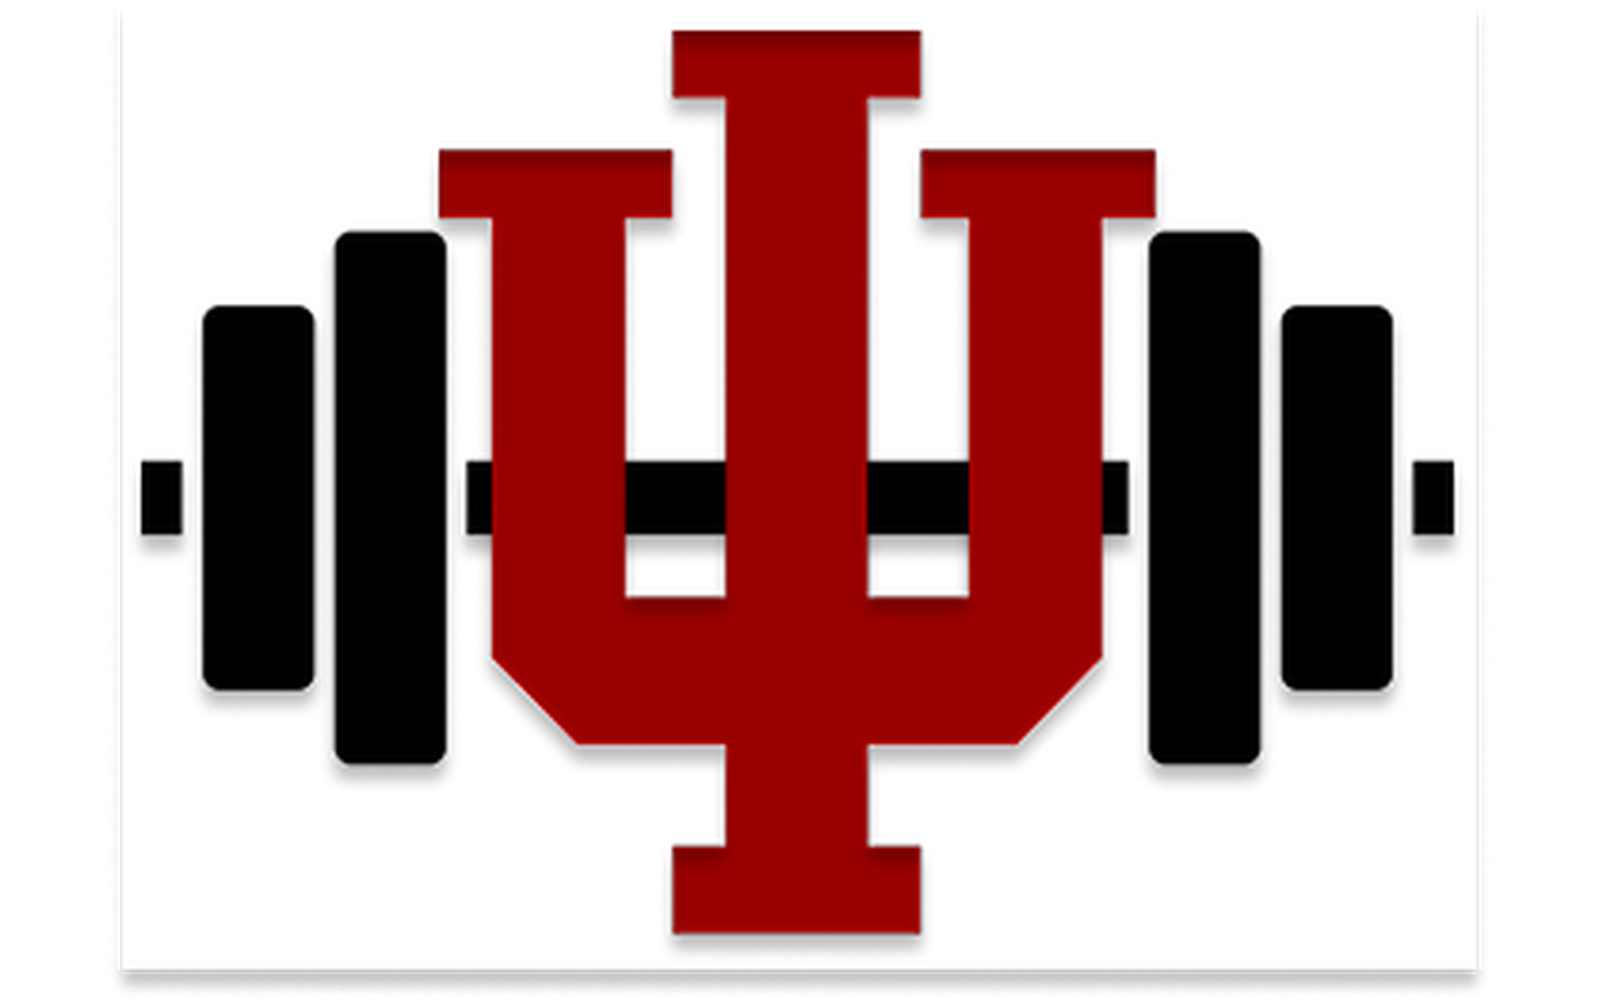
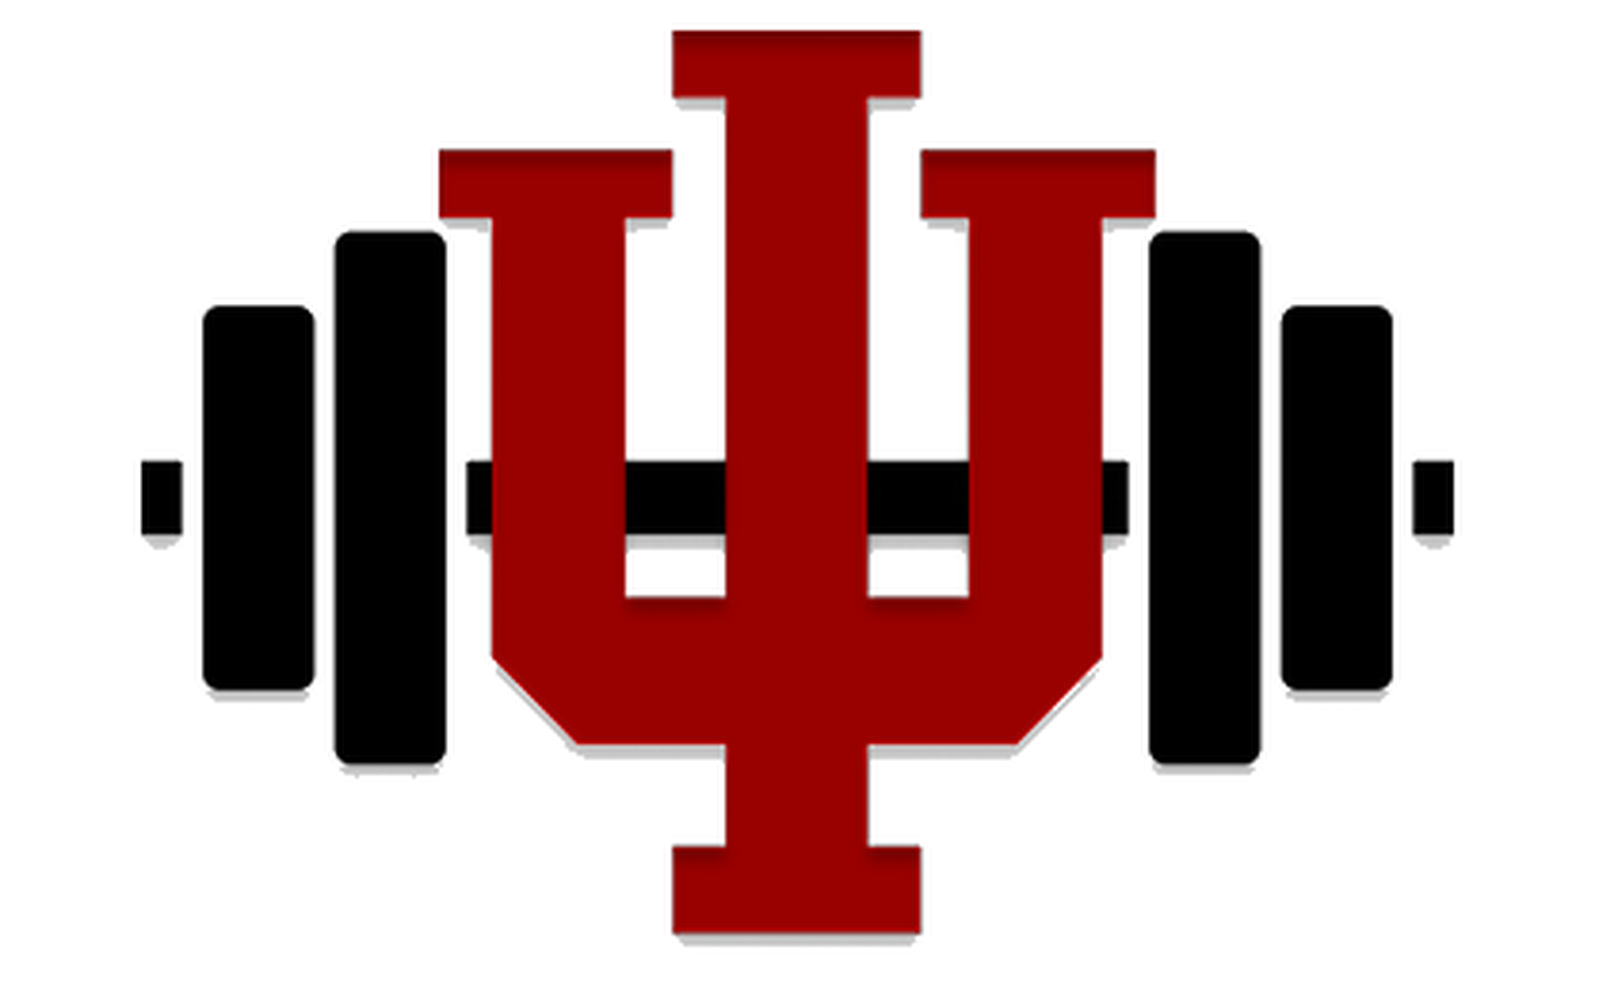
Flatten the GymPal field so the white image fills the card.
Remove the drop-shadow card-in-a-card and keep the trident at full slot height on one white 8:5 field.

diff --git a/docs/styles.css b/docs/styles.css
@@ -506,9 +506,11 @@ p:last-child {
 }
 
 .work-card img {
+  display: block;
   width: 100%;
   aspect-ratio: 8 / 5;
   height: auto;
+  flex-shrink: 0;
   object-fit: cover;
   object-position: center;
   background: var(--bg-2);
